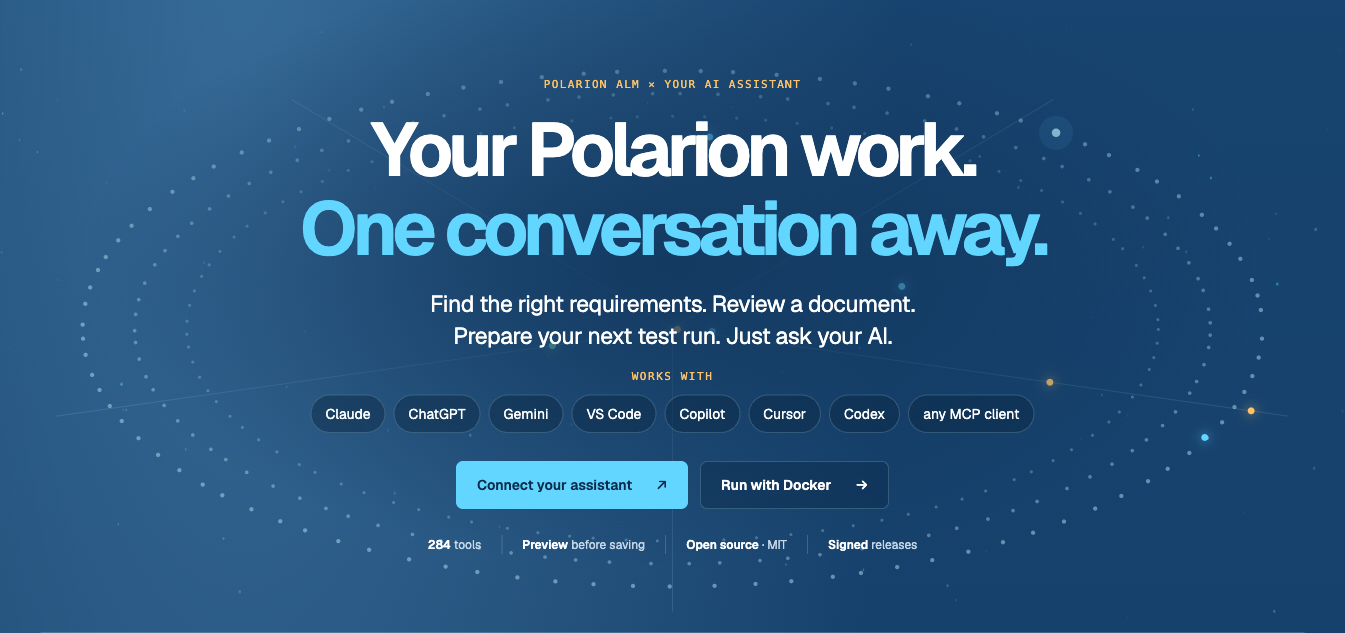
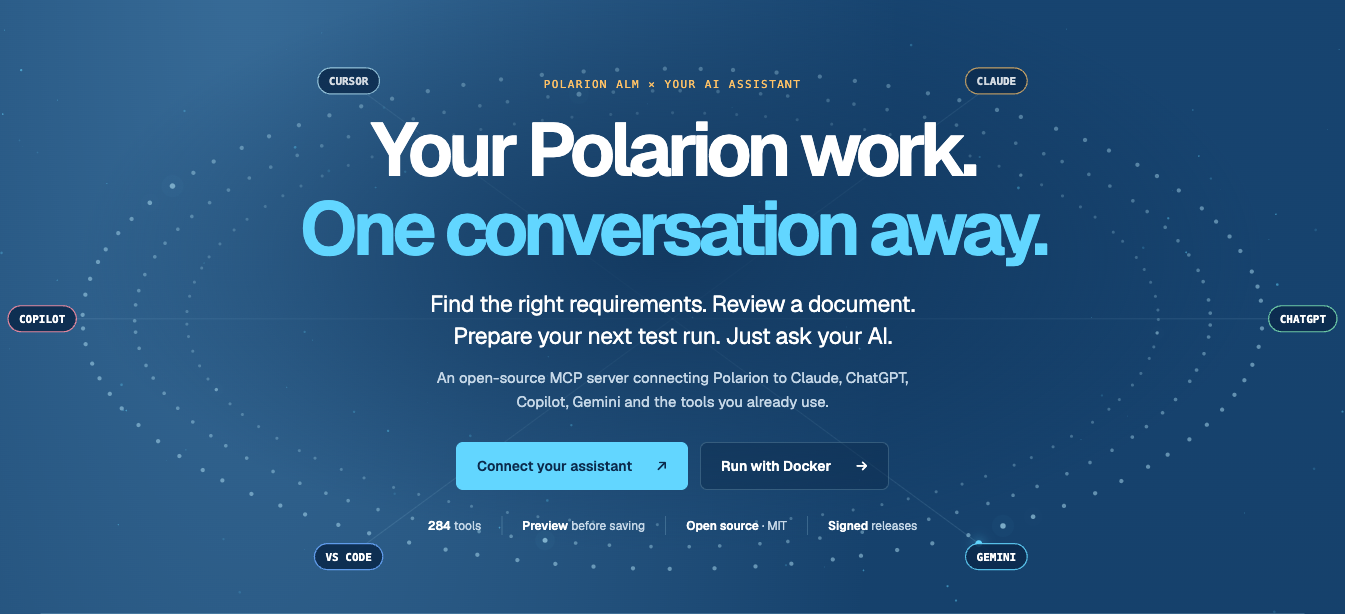
docs: show supported clients around the hero ring, cache-bust site assets (#81)
- viz.js labels six clients (Claude, ChatGPT, Gemini, VS Code, Copilot, Cursor) from 760px up, clamped inside the canvas
- remove the centered works-with list
- render-site appends a content hash to site.css and scripts so new HTML never meets cached old CSS

diff --git a/docs/index.html b/docs/index.html
@@ -13,10 +13,10 @@
   <meta property="og:description" content="284 Polarion REST tools for your AI assistant. Search, review and change Polarion data, previewing every write before it is saved. Open source, MIT." />
   <meta name="twitter:card" content="summary" />
   <link rel="preload" href="https://boesger.com/assets/fonts/geist-var.woff2" as="font" type="font/woff2" crossorigin />
-  <link rel="stylesheet" href="site.css" />
-  <script src="viz.js" defer></script>
-  <script src="setup.js" defer></script>
-  <script src="carousel.js" defer></script>
+  <link rel="stylesheet" href="site.css?v=927d1ba6" />
+  <script src="viz.js?v=458fd94c" defer></script>
+  <script src="setup.js?v=80a39737" defer></script>
+  <script src="carousel.js?v=477b0091" defer></script>
 </head>
 <body>
 <canvas id="particles" aria-hidden="true"></canvas>
@@ -34,7 +34,7 @@
       <p class="eyebrow">Polarion ALM × your AI assistant</p>
       <h1 id="hero-title">Your Polarion work.<br /><span>One conversation away.</span></h1>
       <p class="hero-sub">Find the right requirements. Review a document.<br class="desktop-break" /> Prepare your next test run. Just ask your AI.</p>
-      <div class="works-with" aria-label="Works with"><p>Works with</p><ul><li><a href="#setup/claude-desktop">Claude</a></li><li><a href="#setup/chatgpt-apps">ChatGPT</a></li><li><a href="#setup/gemini-cli">Gemini</a></li><li><a href="#setup/vscode-copilot">VS Code</a></li><li><a href="#setup/copilot-studio">Copilot</a></li><li><a href="#setup/cursor">Cursor</a></li><li><a href="#setup/codex-cli">Codex</a></li><li><a href="#setup/generic-stdio">any MCP client</a></li></ul></div>
+      <p class="hero-explainer">An open-source MCP server connecting Polarion to Claude, ChatGPT,<br class="desktop-break" /> Copilot, Gemini and the tools you already use.</p>
       <div class="hero-actions"><a class="button primary" href="#clients">Connect your assistant <span aria-hidden="true">↗</span></a><a class="button secondary" href="#setup/docker">Run with Docker <span aria-hidden="true">→</span></a></div>
       <ul class="proof" aria-label="Project features">
         <li><a href="https://github.com/phillipboesger/polarion-mcp/blob/main/src/tools.ts"><strong>284</strong> tools</a></li>

diff --git a/docs/viz.js b/docs/viz.js
@@ -72,9 +72,9 @@
     size();
   }
   var q = function (id) { return document.getElementById(id); };
-  /* Hero: five AI clients around a ring of tool points. A question flies in, a tool answers. */
+  /* Hero: six AI clients around a ring of tool points. A question flies in, a tool answers. */
   function heroMcp(canvas) {
-    var clients = [["Claude Code", C.warm], ["Claude Desktop", C.warm], ["Copilot", C.blue], ["ChatGPT", C.mint], ["Claude.ai", C.coral]];
+    var clients = [["Claude", C.warm], ["ChatGPT", C.mint], ["Gemini", C.cyan], ["VS Code", C.blue], ["Copilot", C.coral], ["Cursor", C.ice]];
     var R = rng(5);
     var N = 284;
     var ring = [];
@@ -132,8 +132,9 @@
         ctx.beginPath(); ctx.arc(x, y, 3.4, 0, TAU); ctx.fill(); ctx.shadowBlur = 0;
       }
       ctx.font = MONO; ctx.textAlign = "center";
-      if (w >= 1600) cpos.forEach(function (c, k3) {
+      if (w >= 760) cpos.forEach(function (c, k3) {
         var tw = ctx.measureText(clients[k3][0].toUpperCase()).width + 22;
+        c[0] = Math.min(w - tw / 2 - 8, Math.max(tw / 2 + 8, c[0]));
         ctx.fillStyle = "rgba(11,42,76,0.9)";
         roundRect(ctx, c[0] - tw / 2, c[1] - 13, tw, 26, 13); ctx.fill();
         ctx.strokeStyle = rgba(clients[k3][1], 0.85); ctx.lineWidth = 1.2; ctx.stroke();

diff --git a/docs/site.css b/docs/site.css
@@ -249,10 +249,3 @@ footer div { flex-wrap:wrap; gap:12px 20px; justify-content:end; }
   footer div { justify-content:start; }
 }
 
-/* Pass 5: visible client compatibility in the hero. */
-.works-with { margin:18px auto 0; max-width:760px; }
-.works-with p { font:11px var(--mono); letter-spacing:.14em; text-transform:uppercase; color:var(--warm); margin-bottom:12px; }
-.works-with ul { display:flex; flex-wrap:wrap; justify-content:center; gap:8px; list-style:none; padding:0; margin:0; }
-.works-with a { display:inline-block; padding:7px 14px; border:1px solid var(--line); border-radius:999px; background:rgba(9,37,64,.45); color:var(--ink); font-size:14px; text-decoration:none; }
-.works-with a:hover,.works-with a:focus-visible { border-color:var(--accent); color:var(--accent); }
-@media(max-width:700px) { .works-with a { padding:6px 11px; font-size:13px; } }
